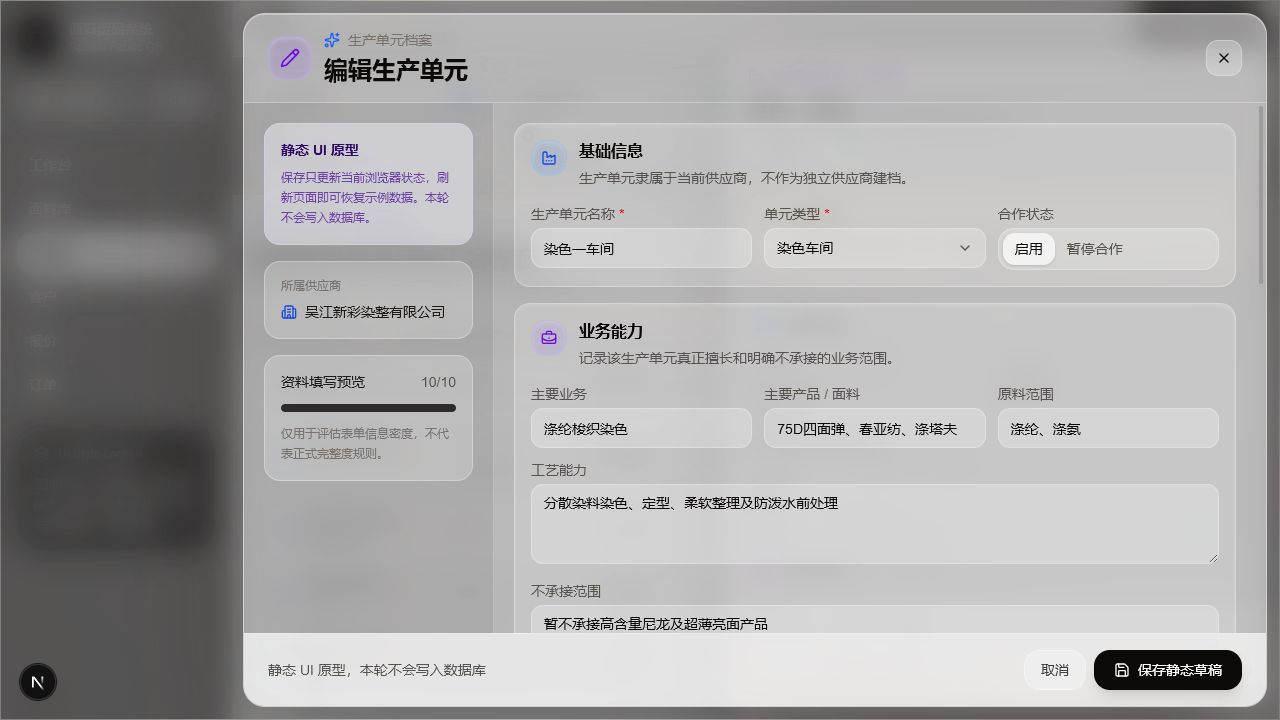
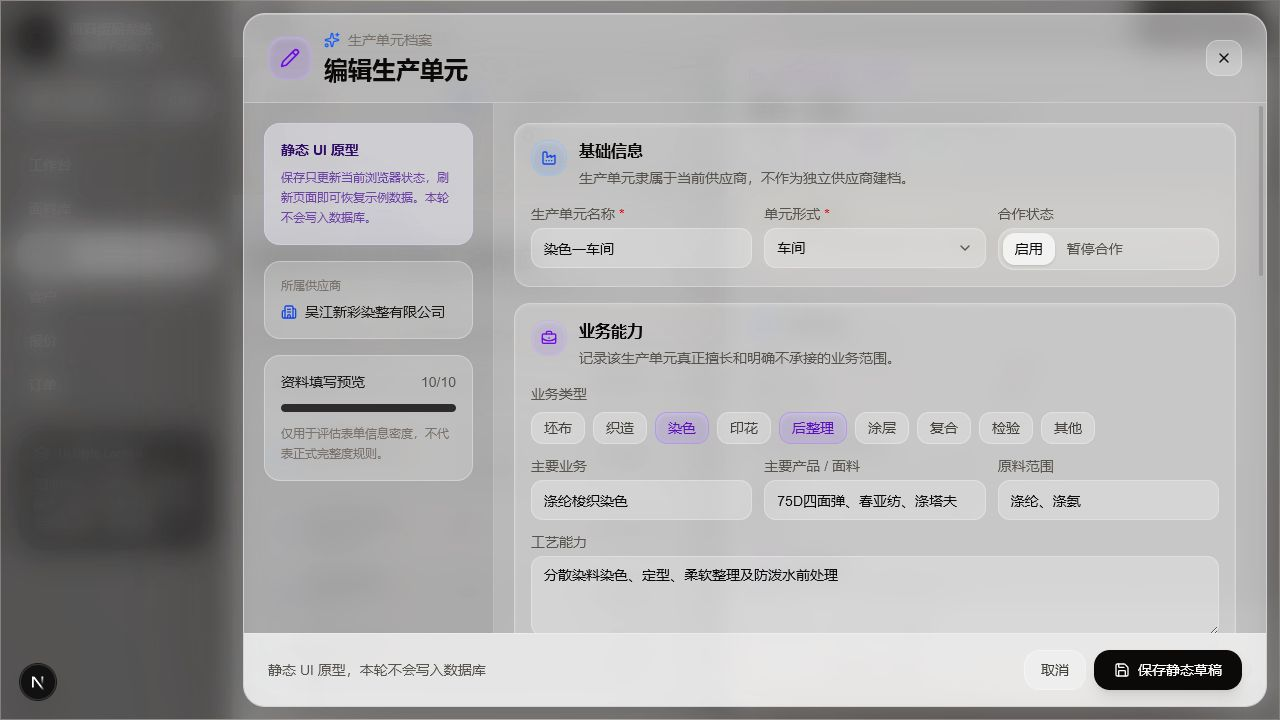
Refine supplier unit classification

diff --git a/src/components/suppliers/supplier-detail-drawer.tsx b/src/components/suppliers/supplier-detail-drawer.tsx
@@ -4,8 +4,8 @@ import { Building2, CalendarClock, CheckCircle2, ChevronDown, CircleDashed, Cont
 import { useEffect, useMemo, useState } from "react";
 import type { ReactNode } from "react";
 import type { SupplierPrototype } from "./supplier-prototype-data";
-import { filterSupplierUnitPrototypes, supplierUnitTypes } from "./supplier-unit-prototype-data";
-import type { SupplierUnitPrototype, SupplierUnitStatus, SupplierUnitType } from "./supplier-unit-prototype-data";
+import { filterSupplierUnitPrototypes, supplierUnitBusinessTypes, supplierUnitForms } from "./supplier-unit-prototype-data";
+import type { SupplierUnitBusinessType, SupplierUnitForm, SupplierUnitPrototype, SupplierUnitStatus } from "./supplier-unit-prototype-data";
 
 function DetailSection({ icon: Icon, title, children, tone = "blue" }: { icon: typeof Building2; title: string; children: ReactNode; tone?: "blue" | "emerald" | "amber" | "violet" }) {
   const tones = {
@@ -46,9 +46,13 @@ function UnitFilterSelect<T extends string>({ label, value, options, onChange }:
 
 function SupplierUnitsSection({ units, onSelectUnit, onCreateUnit }: { units: SupplierUnitPrototype[]; onSelectUnit: (unit: SupplierUnitPrototype) => void; onCreateUnit: () => void }) {
   const [query, setQuery] = useState("");
-  const [typeFilter, setTypeFilter] = useState<"全部类型" | SupplierUnitType>("全部类型");
+  const [formFilter, setFormFilter] = useState<"全部形式" | SupplierUnitForm>("全部形式");
+  const [businessTypeFilter, setBusinessTypeFilter] = useState<"全部业务" | SupplierUnitBusinessType>("全部业务");
   const [statusFilter, setStatusFilter] = useState<"全部状态" | SupplierUnitStatus>("全部状态");
-  const filteredUnits = useMemo(() => filterSupplierUnitPrototypes(units, { query, type: typeFilter, status: statusFilter }), [query, statusFilter, typeFilter, units]);
+  const filteredUnits = useMemo(
+    () => filterSupplierUnitPrototypes(units, { query, unitForm: formFilter, businessType: businessTypeFilter, status: statusFilter }),
+    [businessTypeFilter, formFilter, query, statusFilter, units],
+  );
 
   return (
     <section aria-label="生产单元" className="border-t border-white/30 py-5">
@@ -61,15 +65,16 @@ function SupplierUnitsSection({ units, onSelectUnit, onCreateUnit }: { units: Su
         <div className="mt-4 rounded-2xl border border-dashed border-white/46 bg-white/18 px-4 py-6 text-center"><Factory className="mx-auto size-6 text-stone-400" /><p className="mt-3 text-sm font-medium text-stone-700">尚未建立生产单元</p><p className="mx-auto mt-2 max-w-sm text-xs leading-5 text-stone-500">对于分车间经营的染厂、印花厂，可以在这里记录不同车间的业务能力。</p><button className="mt-4 inline-flex h-9 items-center gap-1.5 rounded-xl bg-stone-950 px-3 text-xs font-medium text-white transition hover:bg-stone-800" onClick={onCreateUnit} type="button"><Plus className="size-3.5" />新增生产单元</button></div>
       ) : (
         <>
-          <label className="mt-4 flex h-9 items-center gap-2 rounded-xl border border-white/32 bg-white/28 px-3 text-xs"><Search className="size-3.5 text-stone-500" /><input className="min-w-0 flex-1 bg-transparent text-stone-900 outline-none placeholder:text-stone-500/70" onChange={(event) => setQuery(event.target.value)} placeholder="搜索单元名称、业务或产品" value={query} /></label>
-          <div className="mt-2 grid grid-cols-2 gap-2"><UnitFilterSelect label="单元类型" options={["全部类型", ...supplierUnitTypes]} value={typeFilter} onChange={setTypeFilter} /><UnitFilterSelect label="状态" options={["全部状态", "启用", "暂停合作"]} value={statusFilter} onChange={setStatusFilter} /></div>
+          <label className="mt-4 flex h-9 items-center gap-2 rounded-xl border border-white/32 bg-white/28 px-3 text-xs"><Search className="size-3.5 text-stone-500" /><input className="min-w-0 flex-1 bg-transparent text-stone-900 outline-none placeholder:text-stone-500/70" onChange={(event) => setQuery(event.target.value)} placeholder="搜索名称、业务、产品或工艺能力" value={query} /></label>
+          <div className="mt-2 grid grid-cols-2 gap-2"><UnitFilterSelect label="单元形式" options={["全部形式", ...supplierUnitForms]} value={formFilter} onChange={setFormFilter} /><UnitFilterSelect label="状态" options={["全部状态", "启用", "暂停合作"]} value={statusFilter} onChange={setStatusFilter} /><div className="col-span-2"><UnitFilterSelect label="业务类型" options={["全部业务", ...supplierUnitBusinessTypes]} value={businessTypeFilter} onChange={setBusinessTypeFilter} /></div></div>
           <div className="mt-3 flex items-center justify-between text-[11px] text-stone-500"><span>点击查看能力与合作条件</span><span className="flex items-center gap-1"><Filter className="size-3" />{filteredUnits.length} / {units.length}</span></div>
           <div className="mt-2 space-y-2">
             {filteredUnits.map((unit) => (
               <button aria-label={`查看生产单元${unit.name}`} className="w-full rounded-2xl border border-white/30 bg-white/22 p-3 text-left shadow-inner shadow-white/10 transition hover:-translate-y-0.5 hover:border-white/48 hover:bg-white/38" key={unit.id} onClick={() => onSelectUnit(unit)} type="button">
-                <div className="flex items-start justify-between gap-3"><div className="min-w-0"><div className="flex items-center gap-2"><span className="truncate text-sm font-semibold text-stone-950">{unit.name}</span><span className="shrink-0 rounded-full border border-white/44 bg-white/48 px-2 py-0.5 text-[11px] text-stone-600">{unit.type}</span></div><div className="mt-1 text-xs text-stone-700">{unit.primaryBusiness}</div></div><span className={`inline-flex shrink-0 items-center gap-1 rounded-full px-2 py-1 text-[11px] ${unit.status === "启用" ? "bg-emerald-50/82 text-emerald-800" : "bg-amber-50/82 text-amber-800"}`}>{unit.status === "启用" ? <CheckCircle2 className="size-3" /> : <CircleDashed className="size-3" />}{unit.status}</span></div>
+                <div className="flex items-start justify-between gap-3"><div className="min-w-0"><div className="flex items-center gap-2"><span className="truncate text-sm font-semibold text-stone-950">{unit.name}</span><span className="shrink-0 rounded-full border border-white/44 bg-white/48 px-2 py-0.5 text-[11px] text-stone-600">{unit.unitForm}</span></div><div className="mt-1 text-xs text-stone-700">{unit.primaryBusiness}</div></div><span className={`inline-flex shrink-0 items-center gap-1 rounded-full px-2 py-1 text-[11px] ${unit.status === "启用" ? "bg-emerald-50/82 text-emerald-800" : "bg-amber-50/82 text-amber-800"}`}>{unit.status === "启用" ? <CheckCircle2 className="size-3" /> : <CircleDashed className="size-3" />}{unit.status}</span></div>
+                <div className="mt-2 flex flex-wrap gap-1.5">{unit.businessTypes.map((businessType) => <span className="rounded-full border border-violet-200/42 bg-violet-50/48 px-2 py-0.5 text-[11px] text-violet-800" key={businessType}>{businessType}</span>)}</div>
                 <div className="mt-2 line-clamp-2 text-xs leading-5 text-stone-600">主要产品：{unit.primaryProducts}</div>
-                <div className="mt-2 flex flex-wrap gap-x-4 gap-y-1 border-t border-white/32 pt-2 text-[11px] text-stone-500"><span>负责人 {unit.manager || "未填写"}</span><span>常规交期 {unit.leadTime || "未填写"}</span></div>
+                <div className="mt-2 flex flex-wrap gap-x-4 gap-y-1 border-t border-white/32 pt-2 text-[11px] text-stone-500"><span>负责人 {unit.manager || "未填写"}</span><span>参考常规交期 {unit.leadTime || "未填写"}</span></div>
                 <div className={`mt-2 flex items-start gap-1.5 rounded-xl px-2.5 py-2 text-[11px] leading-4 ${unit.status === "启用" ? "bg-stone-950/6 text-stone-600" : "bg-amber-50/64 text-amber-900"}`}><ShieldAlert className={`mt-0.5 size-3 shrink-0 ${unit.status === "启用" ? "text-stone-500" : "text-amber-700"}`} />{unit.status === "启用" ? unit.qualityFeatures : unit.riskNote}</div>
               </button>
             ))}

diff --git a/src/components/suppliers/supplier-unit-form-drawer.tsx b/src/components/suppliers/supplier-unit-form-drawer.tsx
@@ -5,10 +5,10 @@ import { useEffect, useMemo, useState } from "react";
 import { FormPanel, GlassInput, GlassSelect, GlassTextarea, PanelTitle, SegmentedControl } from "@/components/form/glass-form-controls";
 import type { ConfigOption } from "@/lib/api/fabric-client";
 import type { SupplierPrototype } from "./supplier-prototype-data";
-import { createEmptySupplierUnitForm, supplierUnitToForm, supplierUnitTypes } from "./supplier-unit-prototype-data";
-import type { SamplingSupport, SupplierUnitFormState, SupplierUnitPrototype, SupplierUnitStatus } from "./supplier-unit-prototype-data";
+import { createEmptySupplierUnitForm, supplierUnitBusinessTypes, supplierUnitForms, supplierUnitToForm } from "./supplier-unit-prototype-data";
+import type { SamplingSupport, SupplierUnitBusinessType, SupplierUnitFormState, SupplierUnitPrototype, SupplierUnitStatus } from "./supplier-unit-prototype-data";
 
-const supplierUnitTypeOptions: ConfigOption[] = supplierUnitTypes.map((type, sortOrder) => ({ key: type, label: type, group: "supplier_unit_type", sortOrder }));
+const supplierUnitFormOptions: ConfigOption[] = supplierUnitForms.map((unitForm, sortOrder) => ({ key: unitForm, label: unitForm, group: "supplier_unit_form", sortOrder }));
 
 export function SupplierUnitFormDrawer({
   mode,
@@ -24,7 +24,7 @@ export function SupplierUnitFormDrawer({
   onSave: (state: SupplierUnitFormState) => void;
 }) {
   const [state, setState] = useState<SupplierUnitFormState>(() => (unit ? supplierUnitToForm(unit) : createEmptySupplierUnitForm()));
-  const [errors, setErrors] = useState<{ name?: string; type?: string }>({});
+  const [errors, setErrors] = useState<{ name?: string; unitForm?: string }>({});
   const [isClosing, setIsClosing] = useState(false);
   const filledCount = useMemo(() => [state.name, state.primaryBusiness, state.primaryProducts, state.materialScope, state.processCapabilities, state.moq, state.leadTime, state.manager, state.phone, state.qualityFeatures].filter((value) => value.trim()).length, [state]);
 
@@ -39,16 +39,20 @@ export function SupplierUnitFormDrawer({
 
   const update = <K extends keyof SupplierUnitFormState>(field: K, value: SupplierUnitFormState[K]) => {
     setState((current) => ({ ...current, [field]: value }));
-    if (field === "name" || field === "type") setErrors((current) => ({ ...current, [field]: undefined }));
+    if (field === "name" || field === "unitForm") setErrors((current) => ({ ...current, [field]: undefined }));
+  };
+
+  const toggleBusinessType = (businessType: SupplierUnitBusinessType) => {
+    update("businessTypes", state.businessTypes.includes(businessType) ? state.businessTypes.filter((item) => item !== businessType) : [...state.businessTypes, businessType]);
   };
 
   const submitStaticDraft = () => {
     const nextErrors = {
       name: state.name.trim() ? undefined : "请填写生产单元名称",
-      type: state.type ? undefined : "请选择单元类型",
+      unitForm: state.unitForm ? undefined : "请选择单元形式",
     };
     setErrors(nextErrors);
-    if (nextErrors.name || nextErrors.type) return;
+    if (nextErrors.name || nextErrors.unitForm) return;
     onSave({ ...state, name: state.name.trim() });
   };
 
@@ -75,12 +79,21 @@ export function SupplierUnitFormDrawer({
               <PanelTitle icon={Factory} tone="blue" title="基础信息" description="生产单元隶属于当前供应商，不作为独立供应商建档。" />
               <div className="mt-4 grid gap-3 md:grid-cols-2 xl:grid-cols-3">
                 <GlassInput label="生产单元名称" required value={state.name} onChange={(value) => update("name", value)} placeholder="如 染色一车间" error={errors.name} />
-                <GlassSelect label="单元类型" required options={supplierUnitTypeOptions} value={state.type} onChange={(value) => update("type", value as SupplierUnitFormState["type"])} configurable={false} error={errors.type} />
+                <GlassSelect label="单元形式" required options={supplierUnitFormOptions} value={state.unitForm} onChange={(value) => update("unitForm", value as SupplierUnitFormState["unitForm"])} configurable={false} error={errors.unitForm} />
                 <div><div className="mb-1 text-sm text-stone-600">合作状态</div><SegmentedControl<SupplierUnitStatus> options={[{ value: "启用", label: "启用" }, { value: "暂停合作", label: "暂停合作" }]} value={state.status} onChange={(value) => update("status", value)} /></div>
               </div>
             </section>
 
             <FormPanel icon={BriefcaseBusiness} tone="violet" title="业务能力" description="记录该生产单元真正擅长和明确不承接的业务范围。">
+              <div className="md:col-span-2 xl:col-span-3">
+                <div className="text-sm text-stone-600">业务类型</div>
+                <div className="mt-2 flex flex-wrap gap-2">
+                  {supplierUnitBusinessTypes.map((businessType) => {
+                    const selected = state.businessTypes.includes(businessType);
+                    return <button aria-pressed={selected} className={`h-8 rounded-xl border px-3 text-sm transition ${selected ? "border-violet-400/50 bg-violet-500/14 text-violet-800 shadow-inner shadow-white/20" : "border-white/30 bg-white/24 text-stone-700 hover:bg-white/42"}`} key={businessType} onClick={() => toggleBusinessType(businessType)} type="button">{businessType}</button>;
+                  })}
+                </div>
+              </div>
               <GlassInput label="主要业务" value={state.primaryBusiness} onChange={(value) => update("primaryBusiness", value)} placeholder="如 涤纶梭织染色" />
               <GlassInput label="主要产品 / 面料" value={state.primaryProducts} onChange={(value) => update("primaryProducts", value)} placeholder="如 春亚纺、四面弹" />
               <GlassInput label="原料范围" value={state.materialScope} onChange={(value) => update("materialScope", value)} placeholder="如 涤纶、锦氨" />
@@ -89,9 +102,9 @@ export function SupplierUnitFormDrawer({
             </FormPanel>
 
             <FormPanel icon={Handshake} tone="emerald" title="合作条件" description="单独维护该车间的起订量、排期和打样能力。">
-              <GlassInput label="MOQ" value={state.moq} onChange={(value) => update("moq", value)} placeholder="如 500kg/色" />
-              <GlassInput label="常规交期" value={state.leadTime} onChange={(value) => update("leadTime", value)} placeholder="如 12-15天" />
-              <GlassInput label="旺季交期" value={state.peakLeadTime} onChange={(value) => update("peakLeadTime", value)} placeholder="如 18-22天" />
+              <GlassInput label="默认 MOQ" value={state.moq} onChange={(value) => update("moq", value)} placeholder="如 500kg/色" />
+              <GlassInput label="参考常规交期" value={state.leadTime} onChange={(value) => update("leadTime", value)} placeholder="如 12-15天" />
+              <GlassInput label="参考旺季交期" value={state.peakLeadTime} onChange={(value) => update("peakLeadTime", value)} placeholder="如 18-22天" />
               <div className="md:col-span-2 xl:col-span-3"><div className="mb-1 text-sm text-stone-600">是否支持打样</div><SegmentedControl<SamplingSupport> options={[{ value: "支持", label: "支持" }, { value: "不支持", label: "不支持" }]} value={state.samplingSupport} onChange={(value) => update("samplingSupport", value)} /></div>
             </FormPanel>
 

diff --git a/src/components/suppliers/supplier-unit-prototype-data.ts b/src/components/suppliers/supplier-unit-prototype-data.ts
@@ -1,17 +1,27 @@
-export const supplierUnitTypes = [
+export const supplierUnitForms = [
   "分厂",
   "事业部",
-  "染色车间",
-  "印花车间",
-  "数码印花部",
-  "平网印花车间",
-  "圆网印花车间",
-  "后整理车间",
-  "涂层车间",
+  "车间",
+  "部门",
+  "生产线",
+  "外协点",
   "其他",
 ] as const;
 
-export type SupplierUnitType = (typeof supplierUnitTypes)[number];
+export const supplierUnitBusinessTypes = [
+  "坯布",
+  "织造",
+  "染色",
+  "印花",
+  "后整理",
+  "涂层",
+  "复合",
+  "检验",
+  "其他",
+] as const;
+
+export type SupplierUnitForm = (typeof supplierUnitForms)[number];
+export type SupplierUnitBusinessType = (typeof supplierUnitBusinessTypes)[number];
 export type SupplierUnitStatus = "启用" | "暂停合作";
 export type SamplingSupport = "支持" | "不支持";
 
@@ -19,7 +29,8 @@ export type SupplierUnitPrototype = {
   id: string;
   supplierId: string;
   name: string;
-  type: SupplierUnitType;
+  unitForm: SupplierUnitForm;
+  businessTypes: SupplierUnitBusinessType[];
   status: SupplierUnitStatus;
   primaryBusiness: string;
   primaryProducts: string;
@@ -45,7 +56,8 @@ export const initialSupplierUnitPrototypes: SupplierUnitPrototype[] = [
     id: "unit-xincai-dyeing-1",
     supplierId: "supplier-wujiang-dyeing",
     name: "染色一车间",
-    type: "染色车间",
+    unitForm: "车间",
+    businessTypes: ["染色", "后整理"],
     status: "启用",
     primaryBusiness: "涤纶梭织染色",
     primaryProducts: "75D四面弹、春亚纺、涤塔夫",
@@ -67,7 +79,8 @@ export const initialSupplierUnitPrototypes: SupplierUnitPrototype[] = [
     id: "unit-xincai-dyeing-2",
     supplierId: "supplier-wujiang-dyeing",
     name: "染色二车间",
-    type: "染色车间",
+    unitForm: "车间",
+    businessTypes: ["染色"],
     status: "启用",
     primaryBusiness: "尼龙及弹力面料染色",
     primaryProducts: "尼龙四面弹、锦氨面料",
@@ -89,7 +102,8 @@ export const initialSupplierUnitPrototypes: SupplierUnitPrototype[] = [
     id: "unit-jincheng-digital",
     supplierId: "supplier-keqiao-printing",
     name: "数码印花部",
-    type: "数码印花部",
+    unitForm: "部门",
+    businessTypes: ["印花"],
     status: "启用",
     primaryBusiness: "小批量数码印花",
     primaryProducts: "涤纶印花布",
@@ -111,7 +125,8 @@ export const initialSupplierUnitPrototypes: SupplierUnitPrototype[] = [
     id: "unit-jincheng-rotary",
     supplierId: "supplier-keqiao-printing",
     name: "圆网印花车间",
-    type: "圆网印花车间",
+    unitForm: "车间",
+    businessTypes: ["印花"],
     status: "暂停合作",
     primaryBusiness: "大货连续印花",
     primaryProducts: "涤纶梭织印花布",
@@ -134,7 +149,8 @@ export const initialSupplierUnitPrototypes: SupplierUnitPrototype[] = [
 export function createEmptySupplierUnitForm(): SupplierUnitFormState {
   return {
     name: "",
-    type: "其他",
+    unitForm: "其他",
+    businessTypes: [],
     status: "启用",
     primaryBusiness: "",
     primaryProducts: "",
@@ -157,7 +173,8 @@ export function createEmptySupplierUnitForm(): SupplierUnitFormState {
 export function supplierUnitToForm(unit: SupplierUnitPrototype): SupplierUnitFormState {
   return {
     name: unit.name,
-    type: unit.type,
+    unitForm: unit.unitForm,
+    businessTypes: [...unit.businessTypes],
     status: unit.status,
     primaryBusiness: unit.primaryBusiness,
     primaryProducts: unit.primaryProducts,
@@ -179,13 +196,19 @@ export function supplierUnitToForm(unit: SupplierUnitPrototype): SupplierUnitFor
 
 export function filterSupplierUnitPrototypes(
   units: SupplierUnitPrototype[],
-  filters: { query: string; type: "全部类型" | SupplierUnitType; status: "全部状态" | SupplierUnitStatus },
+  filters: {
+    query: string;
+    unitForm: "全部形式" | SupplierUnitForm;
+    businessType: "全部业务" | SupplierUnitBusinessType;
+    status: "全部状态" | SupplierUnitStatus;
+  },
 ) {
   const keyword = filters.query.trim().toLowerCase();
   return units.filter((unit) => {
-    const matchesKeyword = !keyword || [unit.name, unit.primaryBusiness, unit.primaryProducts].join(" ").toLowerCase().includes(keyword);
-    const matchesType = filters.type === "全部类型" || unit.type === filters.type;
+    const matchesKeyword = !keyword || [unit.name, unit.primaryBusiness, unit.primaryProducts, unit.processCapabilities].join(" ").toLowerCase().includes(keyword);
+    const matchesForm = filters.unitForm === "全部形式" || unit.unitForm === filters.unitForm;
+    const matchesBusinessType = filters.businessType === "全部业务" || unit.businessTypes.includes(filters.businessType);
     const matchesStatus = filters.status === "全部状态" || unit.status === filters.status;
-    return matchesKeyword && matchesType && matchesStatus;
+    return matchesKeyword && matchesForm && matchesBusinessType && matchesStatus;
   });
 }

diff --git a/tests/supplier-prototype.test.ts b/tests/supplier-prototype.test.ts
@@ -59,21 +59,29 @@ describe("supplier management static prototype", () => {
     assert.equal(initialSupplierUnitPrototypes.filter((unit) => unit.supplierId === "supplier-wujiang-dyeing").length, 2);
     assert.equal(initialSupplierUnitPrototypes.filter((unit) => unit.supplierId === "supplier-keqiao-printing").length, 2);
     assert.equal(initialSupplierUnitPrototypes.filter((unit) => unit.supplierId === "supplier-kq-knit").length, 0);
+    assert.equal(initialSupplierUnitPrototypes[0].unitForm, "车间");
+    assert.deepEqual(initialSupplierUnitPrototypes[0].businessTypes, ["染色", "后整理"]);
+    assert.deepEqual(initialSupplierUnitPrototypes[1].businessTypes, ["染色"]);
+    assert.equal(initialSupplierUnitPrototypes[2].unitForm, "部门");
+    assert.deepEqual(initialSupplierUnitPrototypes[2].businessTypes, ["印花"]);
   });
 
-  test("searches production units by name, business, and products", () => {
-    const filters = { type: "全部类型" as const, status: "全部状态" as const };
+  test("searches production units by name, business, products, and process capabilities", () => {
+    const filters = { unitForm: "全部形式" as const, businessType: "全部业务" as const, status: "全部状态" as const };
 
     assert.equal(filterSupplierUnitPrototypes(initialSupplierUnitPrototypes, { ...filters, query: "染色一" })[0].name, "染色一车间");
     assert.equal(filterSupplierUnitPrototypes(initialSupplierUnitPrototypes, { ...filters, query: "小批量" })[0].name, "数码印花部");
     assert.equal(filterSupplierUnitPrototypes(initialSupplierUnitPrototypes, { ...filters, query: "锦氨" })[0].name, "染色二车间");
+    assert.equal(filterSupplierUnitPrototypes(initialSupplierUnitPrototypes, { ...filters, query: "防泼水前处理" })[0].name, "染色一车间");
   });
 
-  test("filters production units by type and status", () => {
-    const rotaryUnits = filterSupplierUnitPrototypes(initialSupplierUnitPrototypes, { query: "", type: "圆网印花车间", status: "全部状态" });
-    const pausedUnits = filterSupplierUnitPrototypes(initialSupplierUnitPrototypes, { query: "", type: "全部类型", status: "暂停合作" });
+  test("filters production units by form, business type, and status", () => {
+    const departmentUnits = filterSupplierUnitPrototypes(initialSupplierUnitPrototypes, { query: "", unitForm: "部门", businessType: "全部业务", status: "全部状态" });
+    const printingUnits = filterSupplierUnitPrototypes(initialSupplierUnitPrototypes, { query: "", unitForm: "全部形式", businessType: "印花", status: "全部状态" });
+    const pausedUnits = filterSupplierUnitPrototypes(initialSupplierUnitPrototypes, { query: "", unitForm: "全部形式", businessType: "全部业务", status: "暂停合作" });
 
-    assert.deepEqual(rotaryUnits.map((unit) => unit.name), ["圆网印花车间"]);
+    assert.deepEqual(departmentUnits.map((unit) => unit.name), ["数码印花部"]);
+    assert.deepEqual(printingUnits.map((unit) => unit.name), ["数码印花部", "圆网印花车间"]);
     assert.deepEqual(pausedUnits.map((unit) => unit.name), ["圆网印花车间"]);
   });
 
@@ -82,10 +90,14 @@ describe("supplier management static prototype", () => {
     const editForm = supplierUnitToForm(initialSupplierUnitPrototypes[0]);
 
     assert.equal(emptyForm.status, "启用");
+    assert.equal(emptyForm.unitForm, "其他");
+    assert.deepEqual(emptyForm.businessTypes, []);
     assert.equal(emptyForm.samplingSupport, "支持");
     editForm.name = "未保存的临时名称";
     editForm.qualityFeatures = "未保存的临时质量说明";
+    editForm.businessTypes.push("检验");
     assert.equal(initialSupplierUnitPrototypes[0].name, "染色一车间");
     assert.equal(initialSupplierUnitPrototypes[0].qualityFeatures, "深色稳定，浅色注意缸差");
+    assert.deepEqual(initialSupplierUnitPrototypes[0].businessTypes, ["染色", "后整理"]);
   });
 });

diff --git a/src/components/suppliers/supplier-unit-detail-drawer.tsx b/src/components/suppliers/supplier-unit-detail-drawer.tsx
@@ -65,7 +65,8 @@ export function SupplierUnitDetailDrawer({
               <div className="flex items-center gap-2 text-xs font-medium text-violet-700"><Factory className="size-4" />生产单元详情<span className="rounded-full border border-violet-200/54 bg-violet-50/64 px-2 py-0.5 text-[11px]">静态原型</span></div>
               <h2 className="mt-2 truncate text-xl font-semibold text-stone-950">{unit.name}</h2>
               <div className="mt-2 flex flex-wrap items-center gap-1.5">
-                <span className="rounded-full border border-white/44 bg-white/50 px-2 py-1 text-xs text-stone-700">{unit.type}</span>
+                <span className="rounded-full border border-white/44 bg-white/50 px-2 py-1 text-xs text-stone-700">{unit.unitForm}</span>
+                {unit.businessTypes.map((businessType) => <span className="rounded-full border border-violet-200/50 bg-violet-50/56 px-2 py-1 text-xs text-violet-800" key={businessType}>{businessType}</span>)}
                 <span className={`inline-flex items-center gap-1 rounded-full px-2 py-1 text-xs ${unit.status === "启用" ? "bg-emerald-50/82 text-emerald-800" : "bg-amber-50/82 text-amber-800"}`}>{unit.status === "启用" ? <CheckCircle2 className="size-3" /> : <CircleDashed className="size-3" />}{unit.status}</span>
               </div>
             </div>
@@ -78,12 +79,13 @@ export function SupplierUnitDetailDrawer({
 
           <UnitDetailSection icon={Building2} title="基础信息" tone="blue">
             <UnitDetailField label="单元名称" value={unit.name} />
-            <UnitDetailField label="单元类型" value={unit.type} />
+            <UnitDetailField label="单元形式" value={unit.unitForm} />
             <UnitDetailField label="所属供应商" value={supplier.name} wide />
             <UnitDetailField label="合作状态" value={unit.status} />
           </UnitDetailSection>
 
           <UnitDetailSection icon={BriefcaseBusiness} title="业务能力" tone="violet">
+            <UnitDetailField label="业务类型" value={unit.businessTypes.join("、")} wide />
             <UnitDetailField label="主要业务" value={unit.primaryBusiness} wide />
             <UnitDetailField label="主要产品 / 面料" value={unit.primaryProducts} wide />
             <UnitDetailField label="原料范围" value={unit.materialScope} />
@@ -92,9 +94,9 @@ export function SupplierUnitDetailDrawer({
           </UnitDetailSection>
 
           <UnitDetailSection icon={Handshake} title="合作条件" tone="emerald">
-            <UnitDetailField label="MOQ" value={unit.moq} />
-            <UnitDetailField label="常规交期" value={unit.leadTime} />
-            <UnitDetailField label="旺季交期" value={unit.peakLeadTime} />
+            <UnitDetailField label="默认 MOQ" value={unit.moq} />
+            <UnitDetailField label="参考常规交期" value={unit.leadTime} />
+            <UnitDetailField label="参考旺季交期" value={unit.peakLeadTime} />
             <UnitDetailField label="打样能力" value={unit.samplingSupport} />
           </UnitDetailSection>
 

diff --git a/docs/DEV_LOG.md b/docs/DEV_LOG.md
@@ -731,3 +731,27 @@ Scope note:
 
 Next suggested step:
 - Review whether production-unit types, fields, card density, and second-level drawer interaction match daily supplier management before any database design begins.
+
+### 2026-09-14 Refine supplier production unit classification
+
+Goal:
+- Apply the approved production-unit terminology without expanding the static prototype scope.
+
+Completed:
+- Split the former unit type into a single-select unit form, multi-select business types, and free-text process capabilities.
+- Updated all four production-unit examples with the approved form and business-type combinations.
+- Synchronized cards, detail content, and the create/edit form with the new fields.
+- Expanded unit search to names, business descriptions, products, and process capabilities.
+- Added independent filters for unit form, business type, and cooperation status.
+- Renamed production-unit cooperation labels to default MOQ and reference lead times.
+- Extended tests for multiple business types, search, filters, and edit-draft isolation.
+- Refreshed the three production-unit prototype screenshots in `docs`.
+
+Scope note:
+- This remains a browser-memory static UI prototype. No Prisma, migration, seed, API, database, or fabric feature was changed.
+
+Validation:
+- `npm.cmd test` passed: 44 tests.
+- `npm.cmd run lint` passed.
+- `npm.cmd run build` passed with Next.js 16.3.5.
+- Browser checks passed for process-capability search, business-type filtering, multi-select prefill, and the refreshed list/detail/form screenshots.
